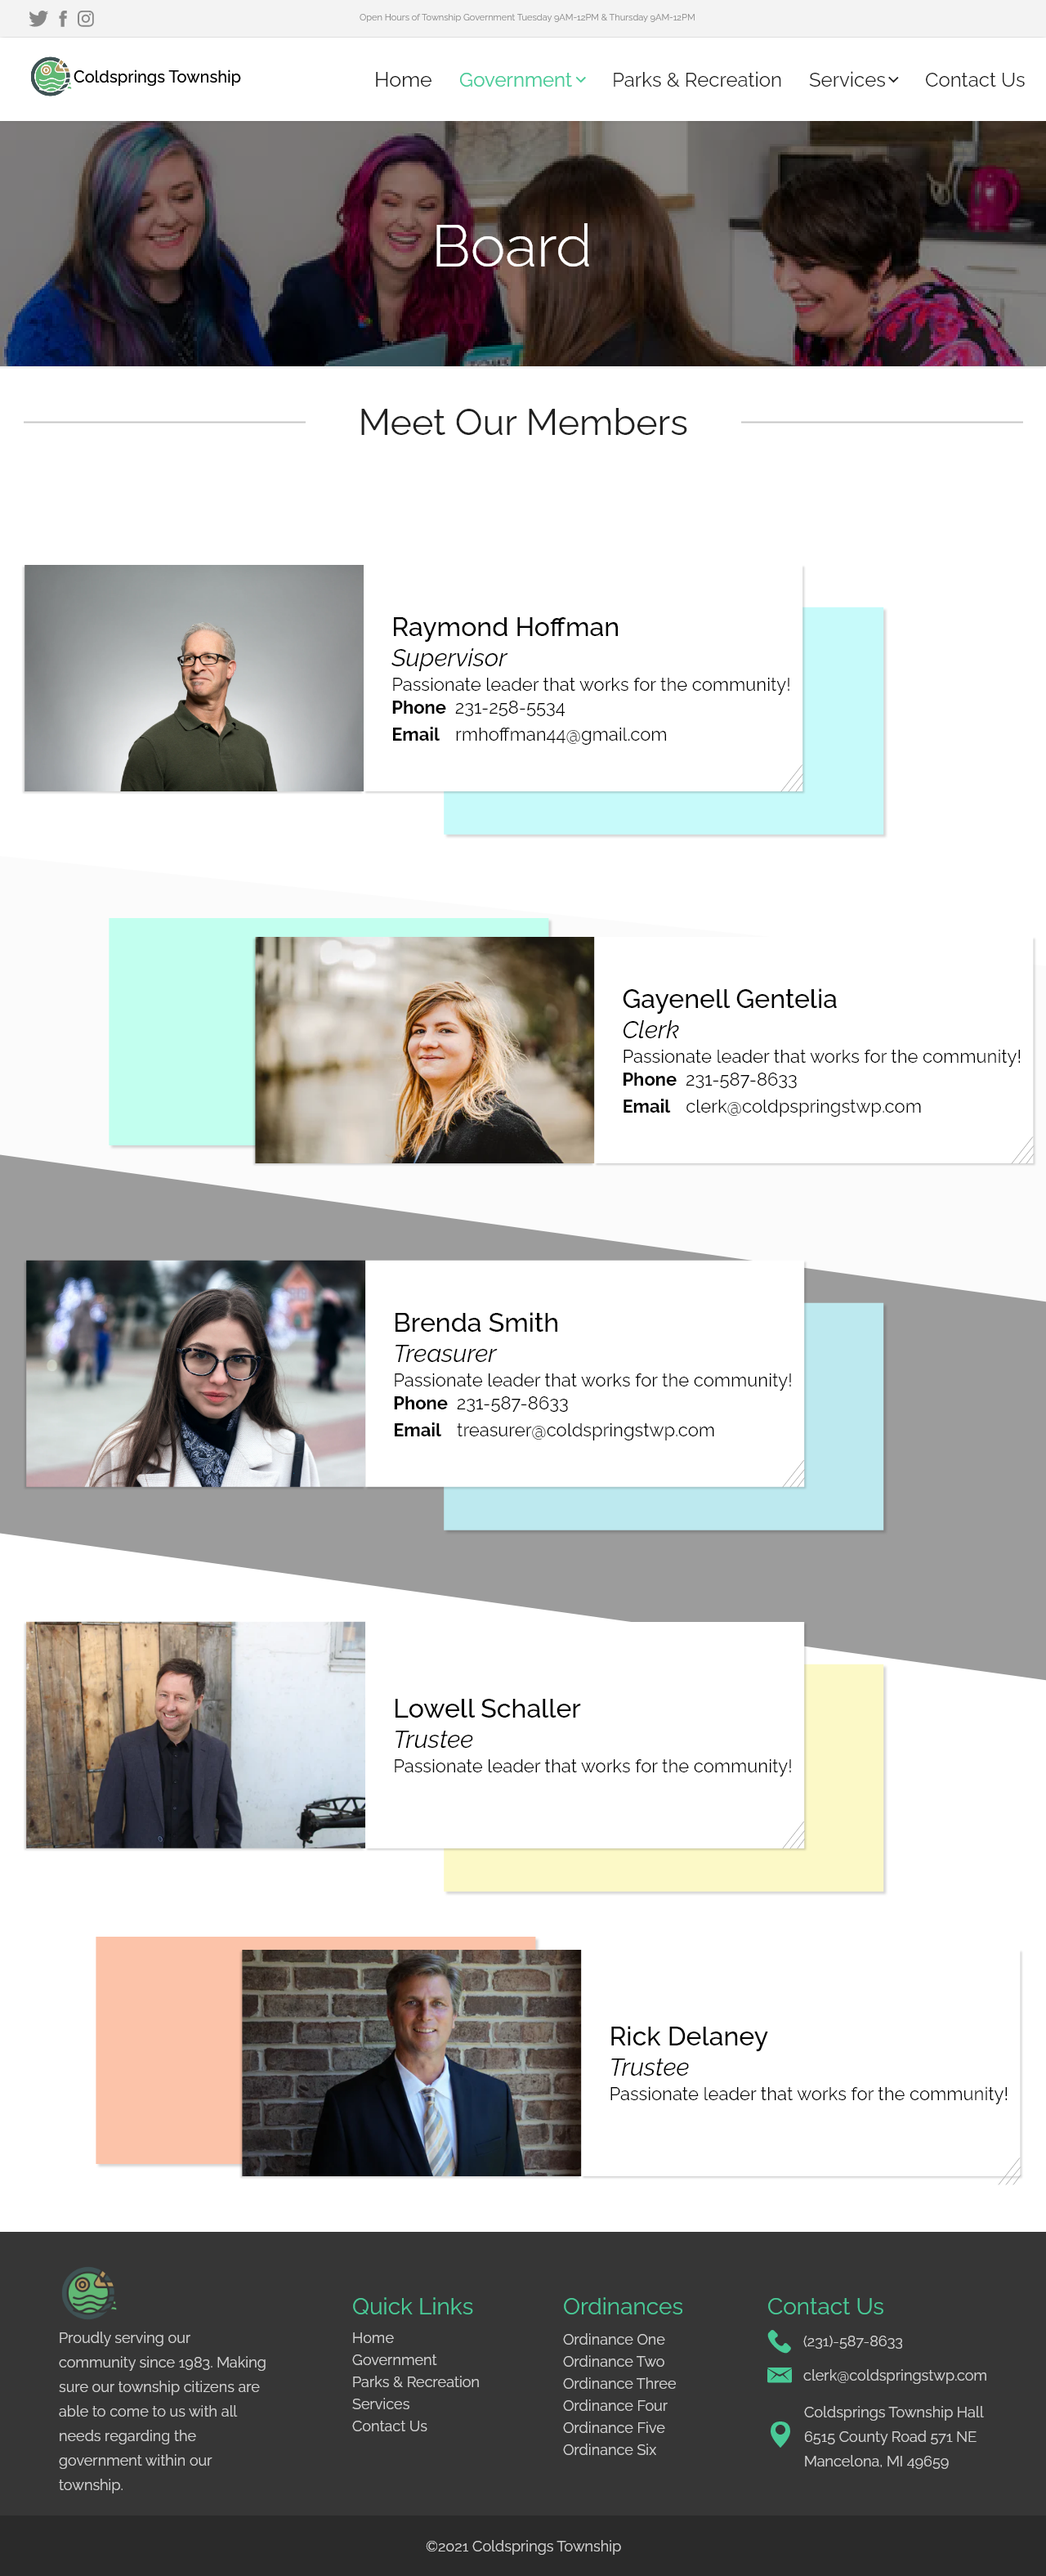
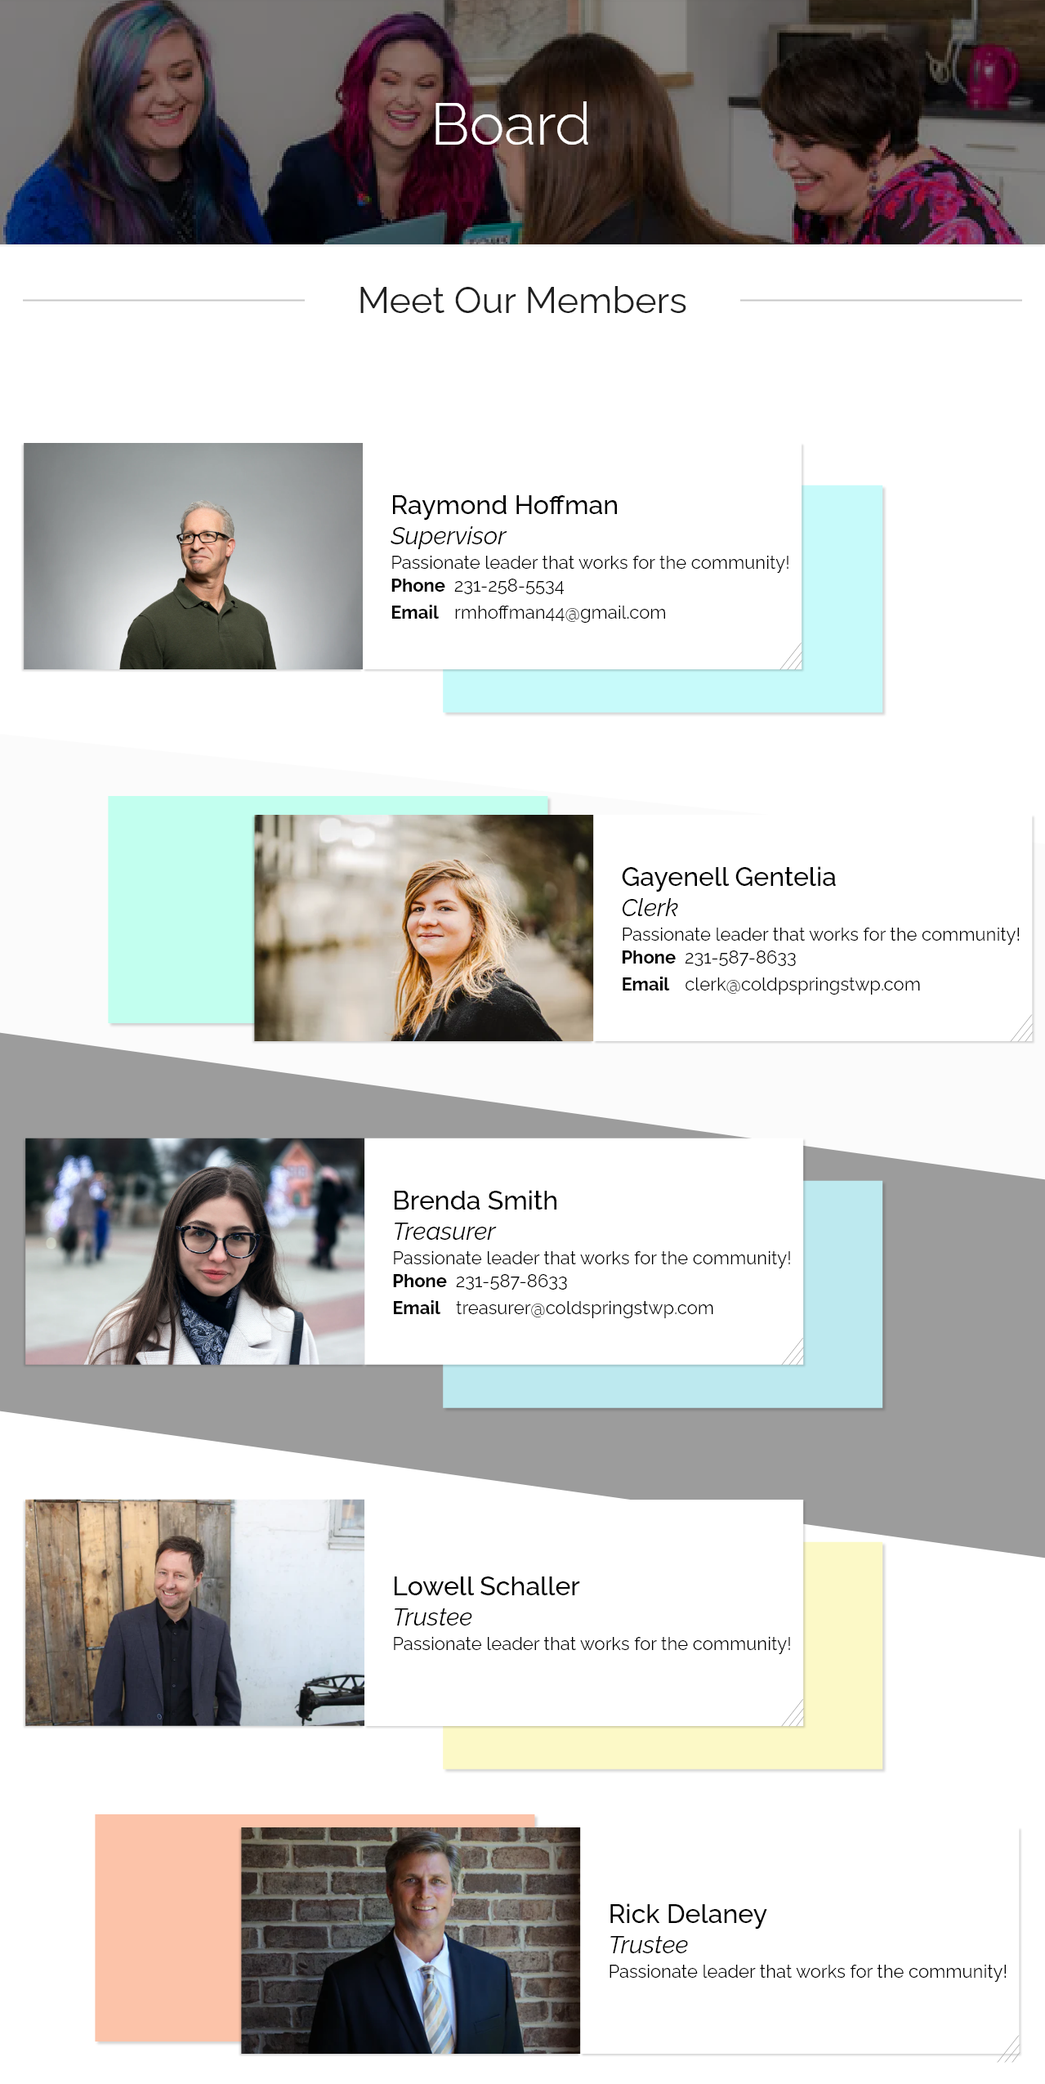
cropped images

diff --git a/frontend/src/Components/Pages/Project/index.css b/frontend/src/Components/Pages/Project/index.css
@@ -71,7 +71,7 @@
   height: 35vh;
   margin: 1rem;
   object-fit: cover;
-  object-position: 50% 50%;
+  object-position: 50% 0%;
   padding: 0;
   -webkit-box-shadow: -2px 2px 2px 0px rgba(0, 0, 0, 0.16);
   -moz-box-shadow: -2px 2px 2px 0px rgba(0, 0, 0, 0.16);
